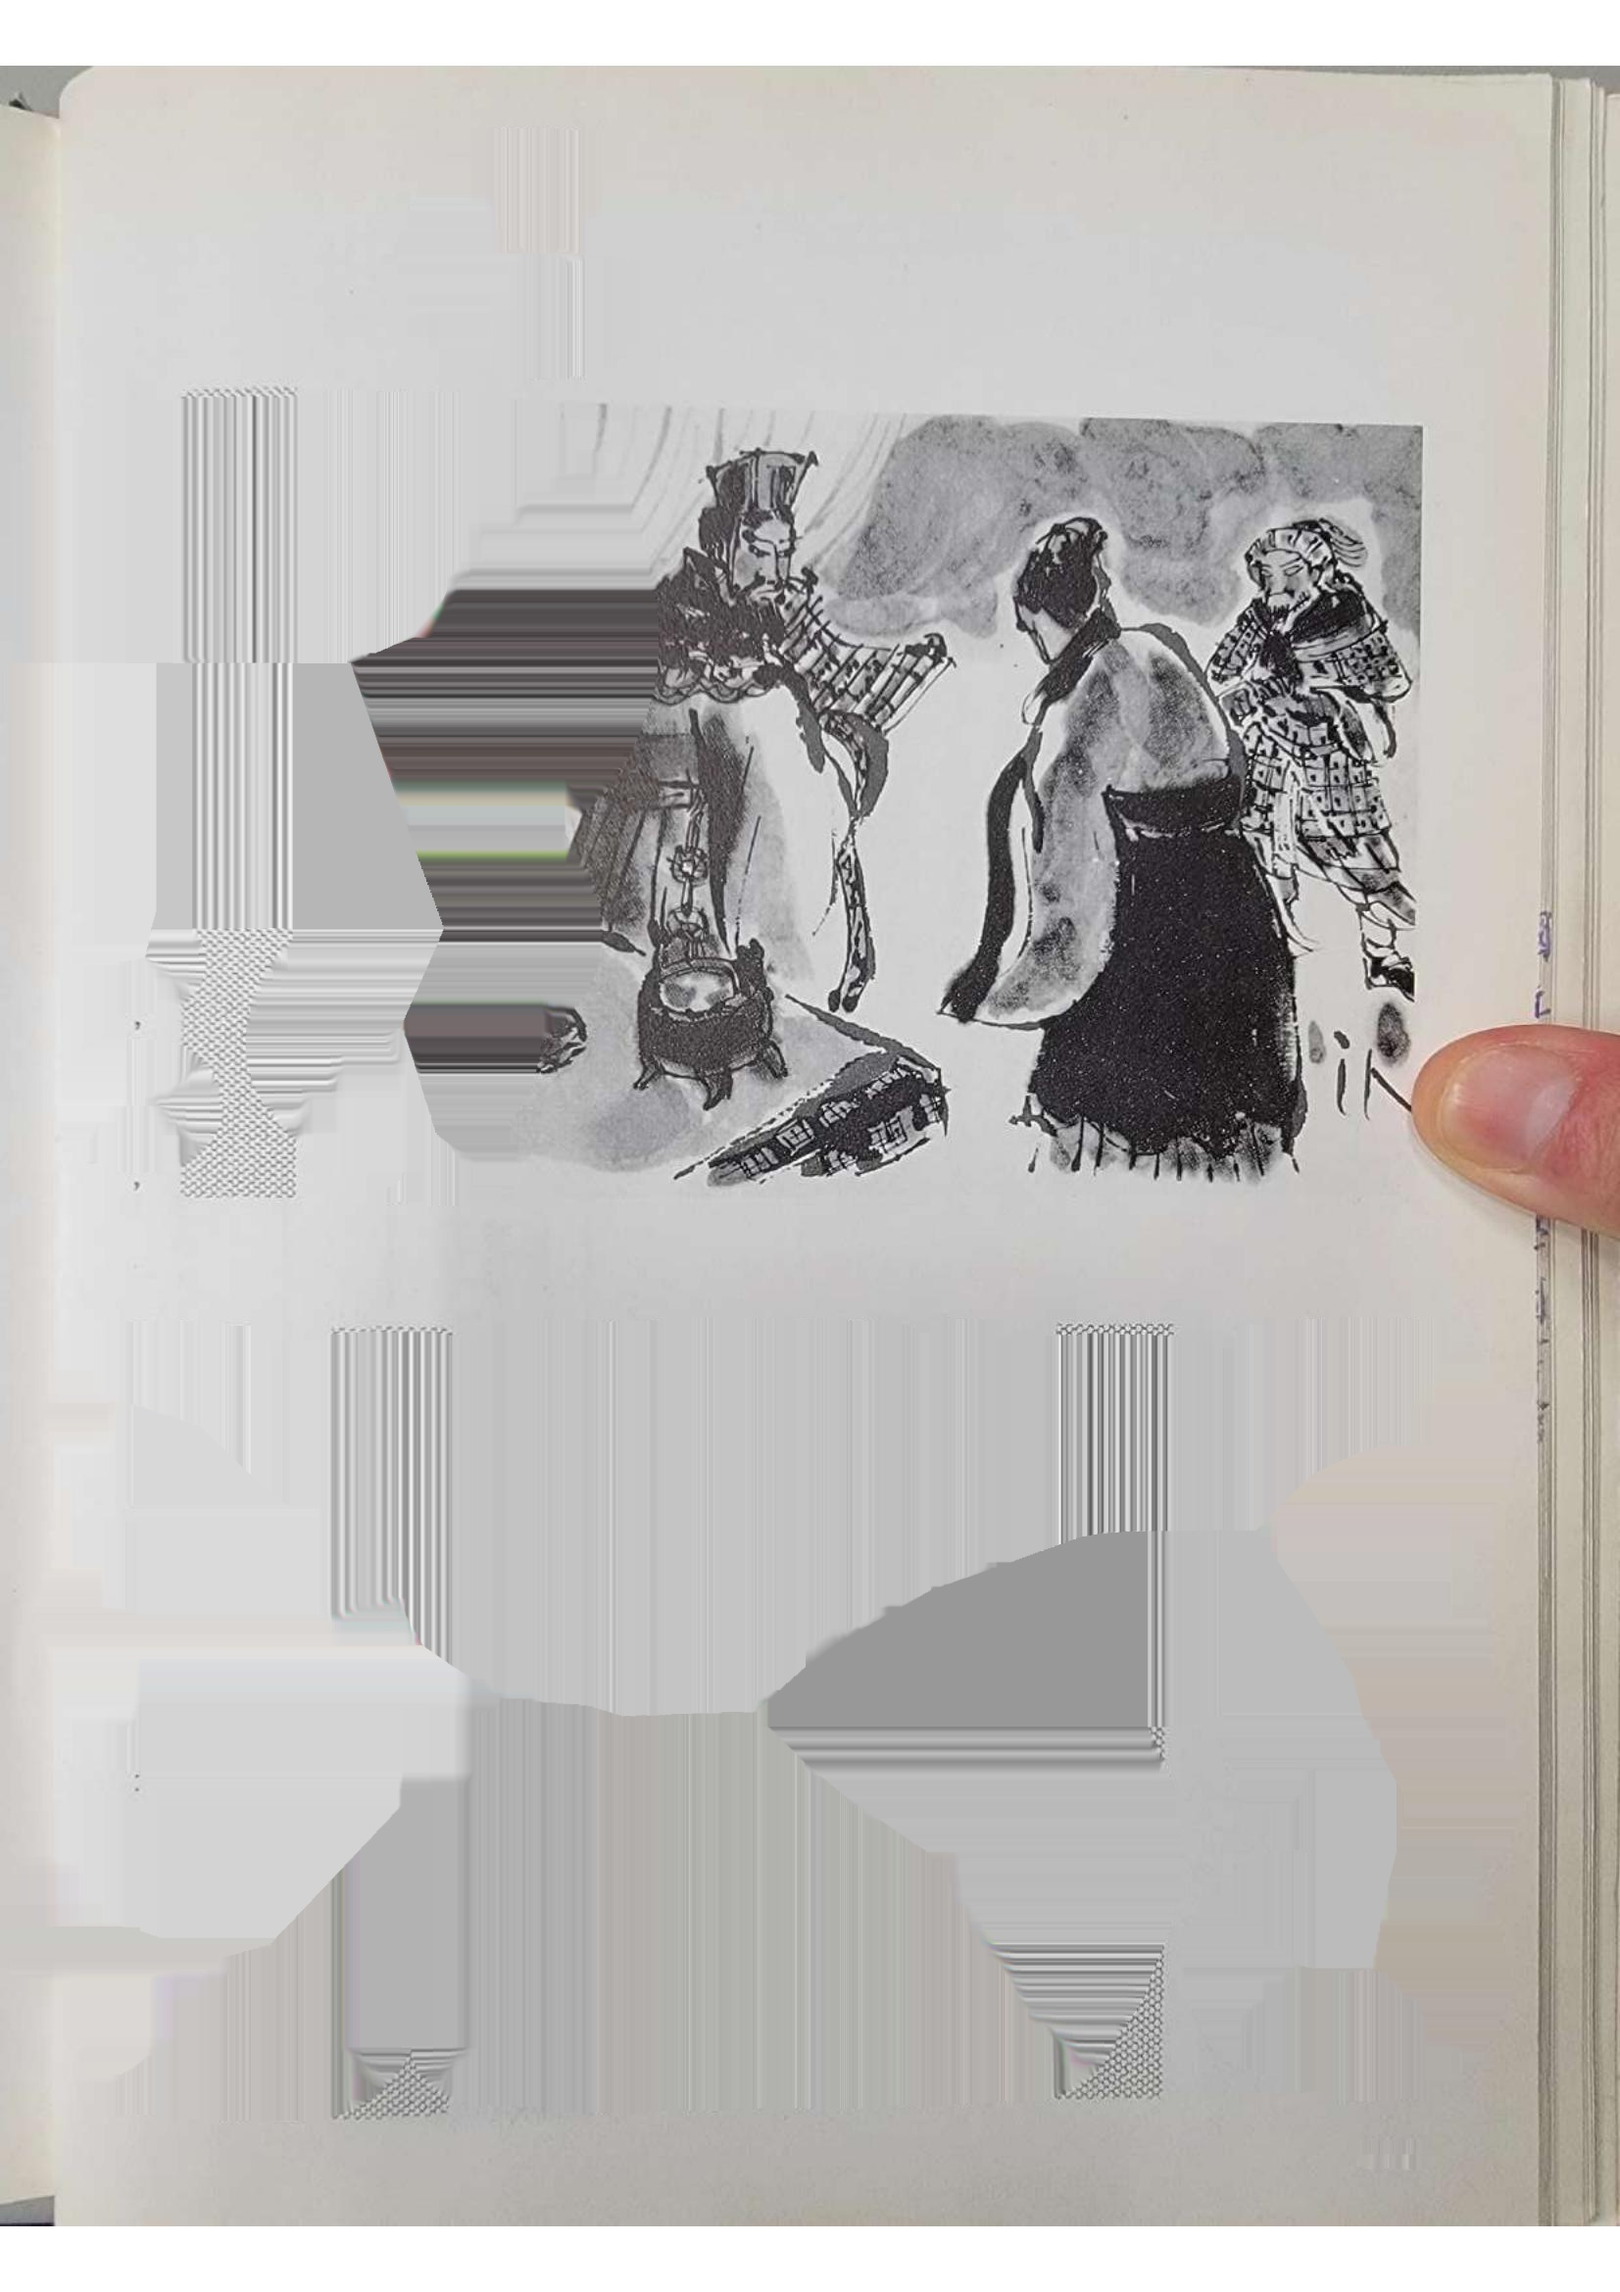
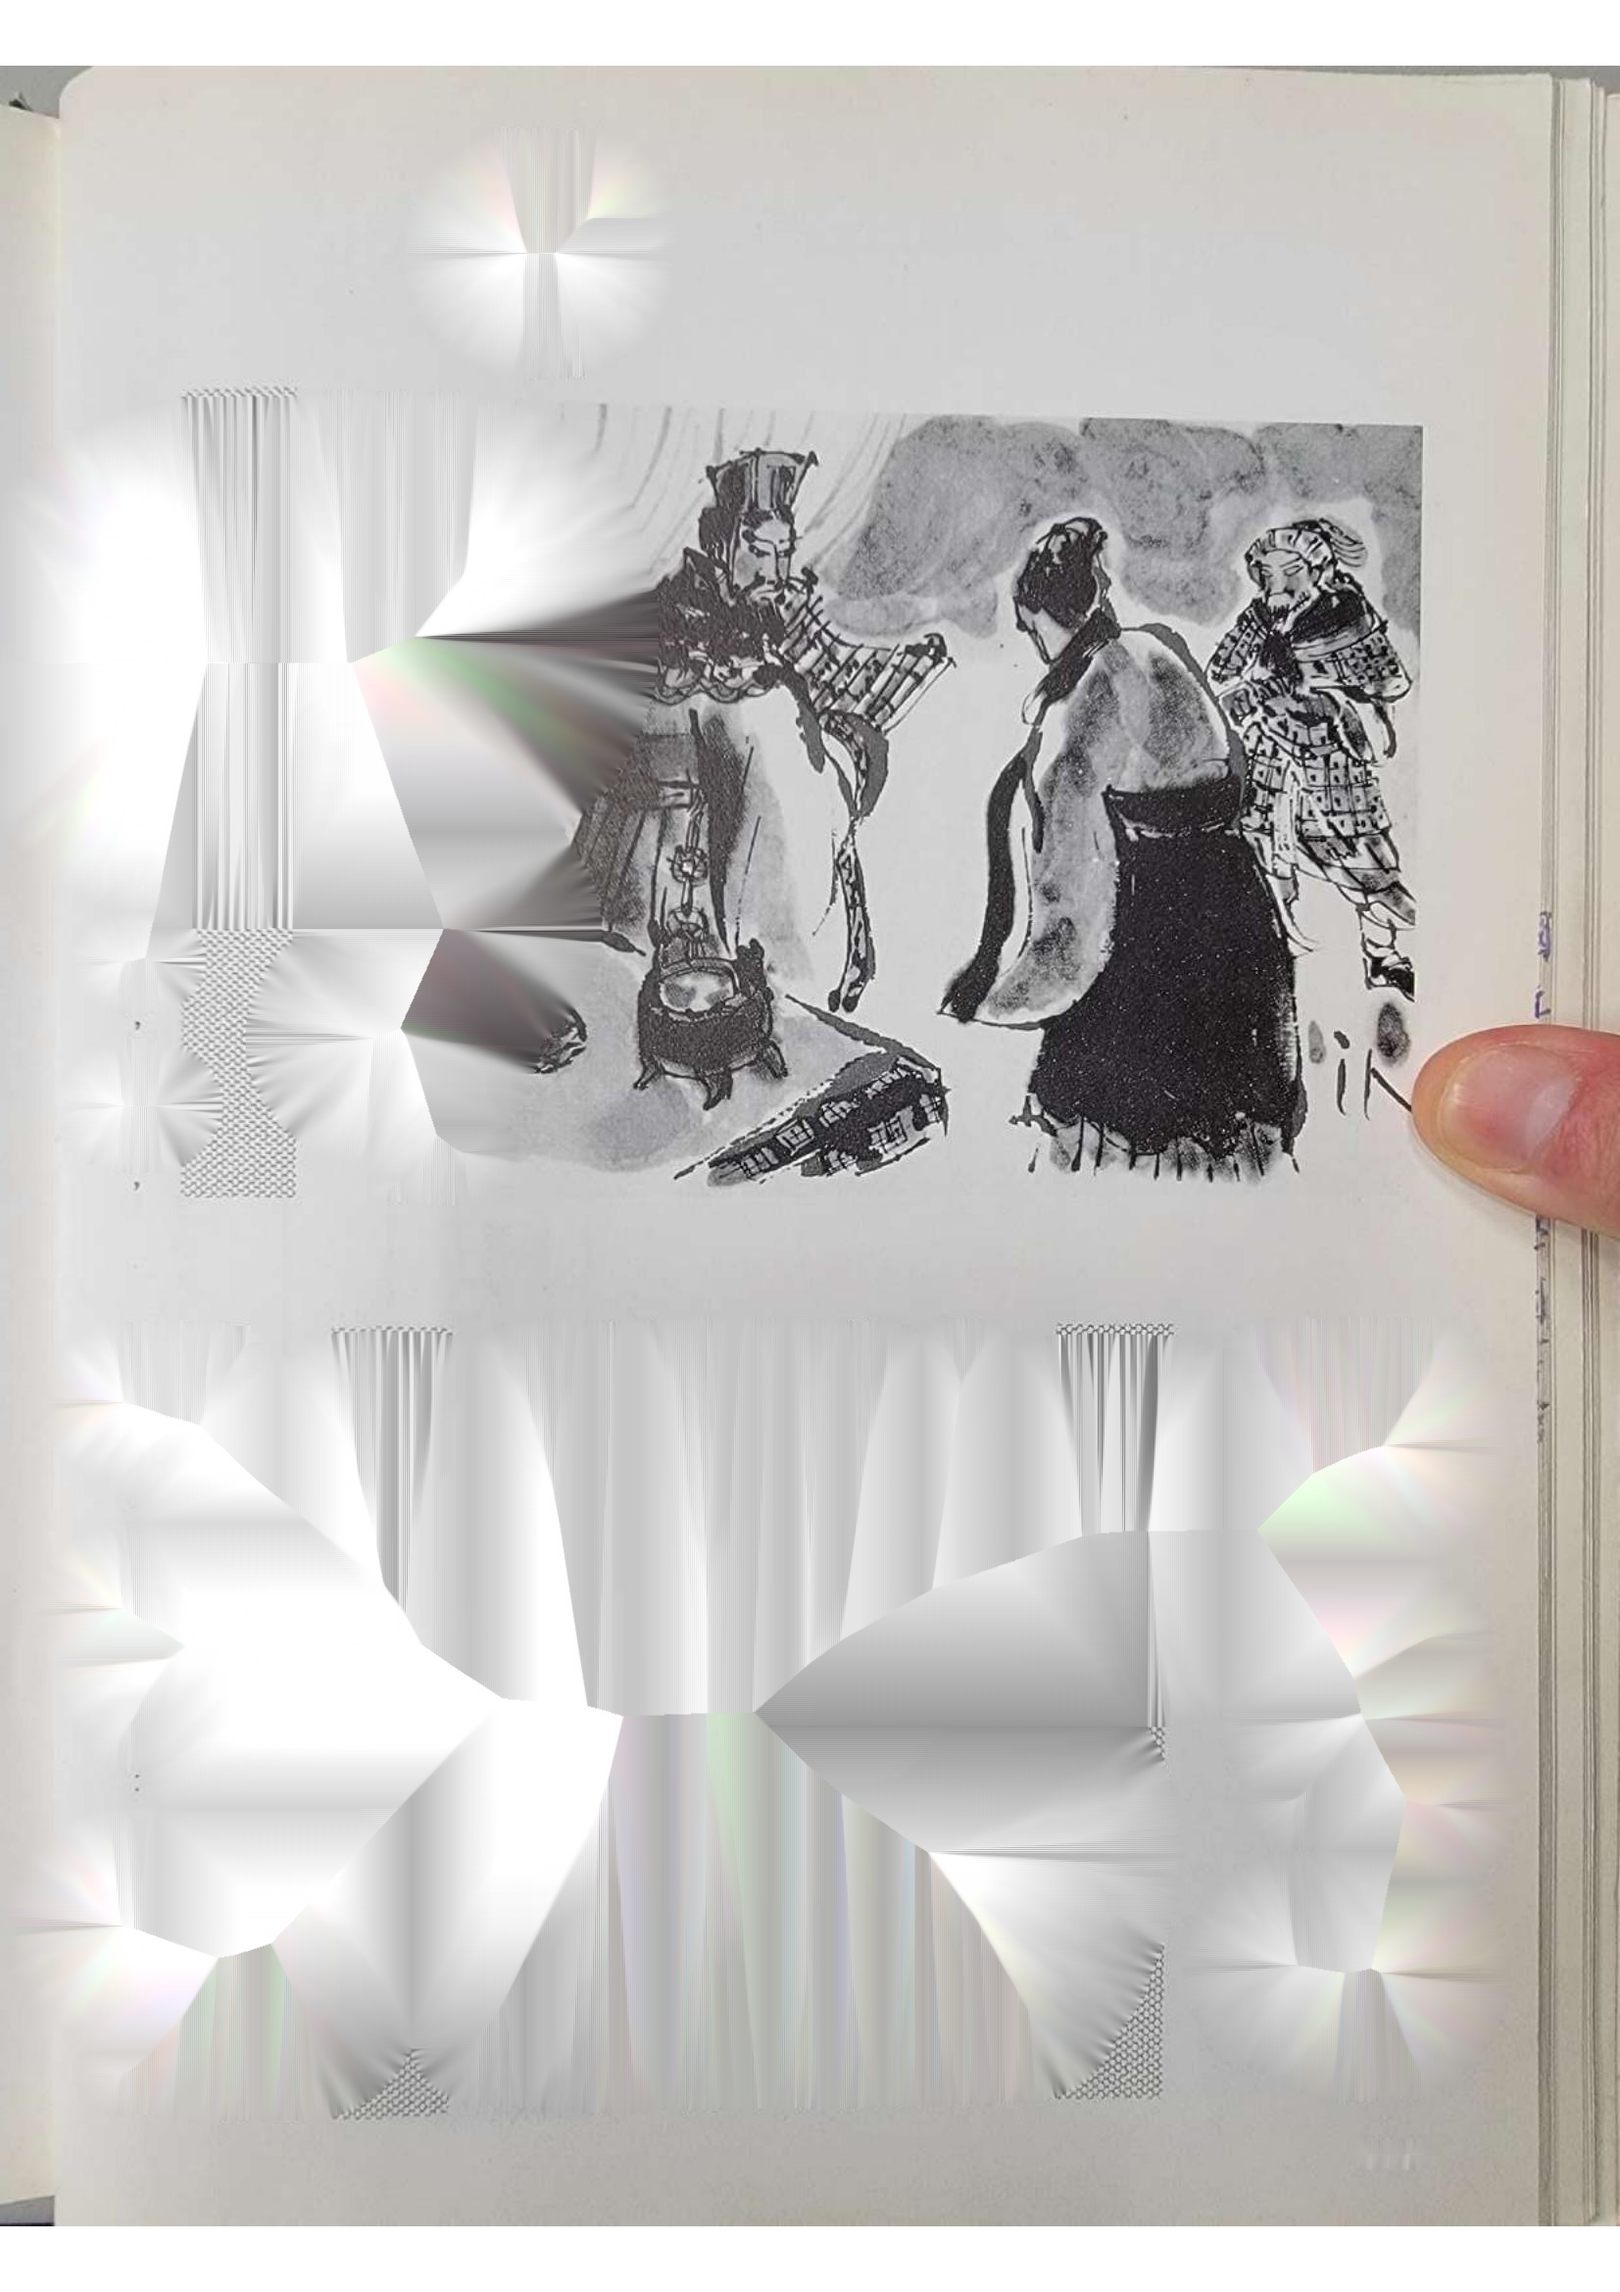
2023.08.23.22.40

diff --git a/inpaint_text.py b/inpaint_text.py
@@ -59,14 +59,10 @@ def inpaint_text(img:np.array=None,
         #Define the line and inpaint
         cv2.line(mask, (x_mid0, y_mid0), (x_mid1, y_mi1), 255,    
         thickness)
-        inpainted_img = cv2.inpaint(img, mask, 1, cv2.INPAINT_NS)   # INPAINT_TELEA
+        inpainted_img = cv2.inpaint(img, mask, 1, cv2.INPAINT_NS)   # INPAINT_TELEA    # INPAINT_NS
                  
     return(inpainted_img)
 
-
-
-
-img_text_removed = inpaint_text(img_path = "/opt/cosmo_home/side_project/extract-image-from-jpg-or-pdf/data/jpg/page0.jpg")
 
 # 記錄結束時間
 end_time = time.time()
@@ -75,4 +71,4 @@ end_time = time.time()
 elapsed_time = end_time - start_time
 print(f"The function took {elapsed_time:.2f} seconds to complete.")
 
-cv2.imwrite('text_removed_image.jpg', cv2.cvtColor(img_text_removed, cv2.COLOR_BGR2RGB))
+#cv2.imwrite('text_removed_image.jpg', cv2.cvtColor(img_text_removed, cv2.COLOR_BGR2RGB))

diff --git a/test-for-development.py b/test-for-development.py
@@ -4,7 +4,6 @@ import matplotlib.image as img
 import os
 import numpy as np
 from pdf2image import convert_from_path # 如果要使用 convert_from_path 的話，需要下載 poppler 到同個資料夾
-from extract_image import show_image,convert_pdf_to_jpg_linux_os
 import cv2
 import keras_ocr
 import math
@@ -15,7 +14,7 @@ images = convert_pdf_to_jpg_linux_os('/opt/cosmo_home/side_project/extract-image
                                      '/opt/cosmo_home/side_project/extract-image-from-jpg-or-pdf/data/jpg')
 
 
-
+'
 # convert BGR to GRAY
 gray = cv2.cvtColor(images[0], cv2.COLOR_BGR2GRAY)    # cv2.COLOR_BGR2GRAY
 ret, output1 = cv2.threshold(gray, 180, 255, cv2.THRESH_BINARY)     # 如果大於 127 就等於 255，反之等於 0。

diff --git a/README.md b/README.md
@@ -1,0 +1,6 @@
+
+除了導入的套件要安裝之外，下面這些套件也必須要安裝
+
+pip install tensorflow==2.8.3
+pip install tensorrt==8.5.1.7
+conda install cuda -c nvidia
